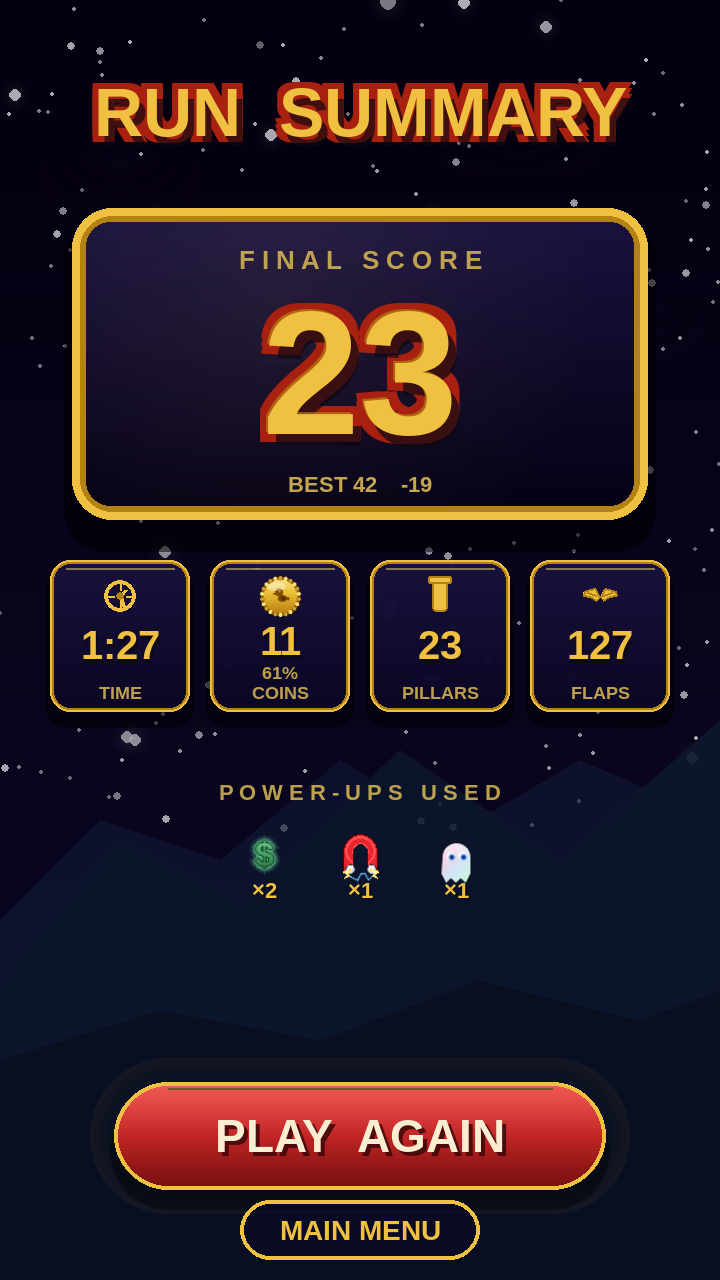
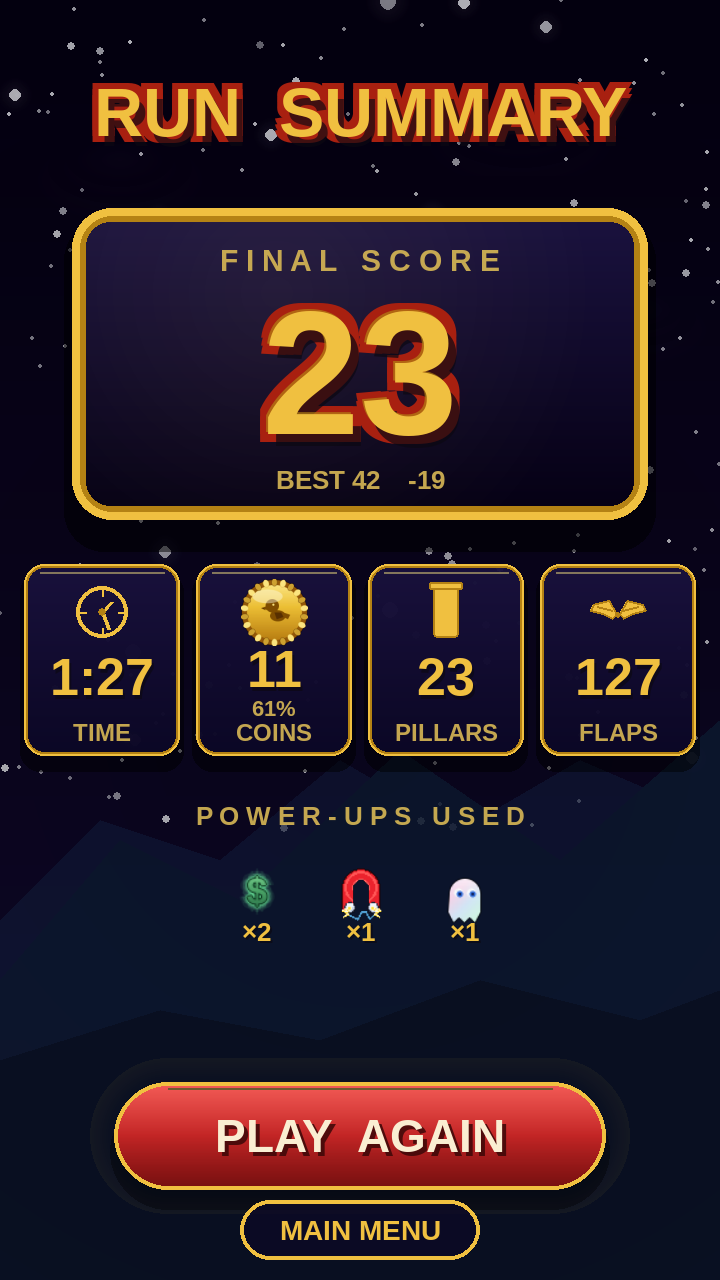
v1 typography pass: bigger tile content, bigger captions, bigger wings
The tiny secondary text was the weakest part of the screen. Now that
the power-ups row freed up vertical space, scaled everything up:

  - stat tile icon: size 8 → 13 (the wings glyph in particular is now
    legible as a pair of bird wings instead of two flecks)
  - stat tile value: font 20 → 26
  - stat tile label: font 9 → 12 (auto-shrink floor lifted to 9)
  - COINS subline: font 9 → 11
  - tile dimensions: 70×76 → 78×96 to fit the larger content
  - plaque "BEST 42 -19" line: font 11 → 13
  - "FINAL SCORE" caption: font 13 → 15
  - "POWER-UPS USED" caption: font 11 → 13
  - power-up icons: 22 → 24 logical
  - "×N" labels: font 11 → 13

All seven power-up kinds still fit in a single row at the wider icon
size; the all-7 stress test confirms it.

https://claude.ai/code/session_01BEgi1kRwzhWvvC8NuZNc1t

diff --git a/tools/gen_run_summary_redesigns.py b/tools/gen_run_summary_redesigns.py
@@ -698,35 +698,35 @@ def stat_tile_chunky(surf, rect, icon_kind, value, label, subline=None):
                      (8 * SCALE, 4 * SCALE),
                      (rect.w - 8 * SCALE, 4 * SCALE), 1 * SCALE)
     surf.blit(body, rect.topleft)
-    # Icon
-    stat_icon(surf, icon_kind, rect.centerx, rect.y + 18 * SCALE,
-              size=8)
+    # Icon — larger so it reads at a glance, especially the wings glyph
+    stat_icon(surf, icon_kind, rect.centerx, rect.y + 24 * SCALE,
+              size=13)
     # Value
-    vf = font(20, True).render(str(value), True, GOLD_BRIGHT)
-    vs = font(20, True).render(str(value), True, NEAR_BLACK)
+    vf = font(26, True).render(str(value), True, GOLD_BRIGHT)
+    vs = font(26, True).render(str(value), True, NEAR_BLACK)
     vs.set_alpha(170)
-    vy = rect.y + 40 * SCALE if subline else rect.y + 42 * SCALE
+    vy = rect.y + 52 * SCALE if subline else rect.y + 56 * SCALE
     vr = vf.get_rect(center=(rect.centerx, vy))
     surf.blit(vs, (vr.x + 1 * SCALE, vr.y + 2 * SCALE))
     surf.blit(vf, vr)
     # Optional subline — small gold-muted caption directly below the
     # value (used for COINS to surface "61%" alongside the raw count)
     if subline:
-        sf = font(9, True).render(subline, True, GOLD_MUTED)
-        sf.set_alpha(220)
+        sf = font(11, True).render(subline, True, GOLD_MUTED)
+        sf.set_alpha(230)
         surf.blit(sf, sf.get_rect(center=(rect.centerx,
-                                          rect.y + 56 * SCALE)))
-    # Label — shrinks one step if the longer captions ("NEAR MISSES")
-    # would otherwise crowd the tile edges
-    max_label_w = rect.w - 8 * SCALE
-    lbl_size = 9
+                                          rect.y + 72 * SCALE)))
+    # Label — shrinks one step if the longer captions would otherwise
+    # crowd the tile edges
+    max_label_w = rect.w - 10 * SCALE
+    lbl_size = 12
     lf = font(lbl_size, True).render(label, True, GOLD_MUTED)
-    while lf.get_width() > max_label_w and lbl_size > 7:
+    while lf.get_width() > max_label_w and lbl_size > 9:
         lbl_size -= 1
         lf = font(lbl_size, True).render(label, True, GOLD_MUTED)
-    lf.set_alpha(220)
+    lf.set_alpha(230)
     surf.blit(lf, lf.get_rect(center=(rect.centerx,
-                                      rect.y + rect.h - 10 * SCALE)))
+                                      rect.y + rect.h - 12 * SCALE)))
 
 
 def powerup_chip(surf, cx, cy, kind, count, size=22):
@@ -827,8 +827,8 @@ def draw_v1_trophy_cinema(surf, data):
     glow.blit(mask, (0, 0), special_flags=pygame.BLEND_RGBA_MIN)
     surf.blit(glow, face.topleft)
     # SCORE caption
-    sc = font(13, True).render("F I N A L   S C O R E", True, GOLD_MUTED)
-    sc.set_alpha(220)
+    sc = font(15, True).render("F I N A L   S C O R E", True, GOLD_MUTED)
+    sc.set_alpha(230)
     surf.blit(sc, sc.get_rect(center=(W // 2, plaque.y + 26 * SCALE)))
     # Massive engraved number
     big_num = str(data["score"])
@@ -857,10 +857,10 @@ def draw_v1_trophy_cinema(surf, data):
     else:
         cmp_text = f"BEST {data['best']}    {delta:+d}"
         cmp_color = GOLD_MUTED
-    cf = font(11, True).render(cmp_text, True, cmp_color)
+    cf = font(13, True).render(cmp_text, True, cmp_color)
     cf.set_alpha(230)
     surf.blit(cf, cf.get_rect(center=(W // 2,
-                                       plaque.bottom - 18 * SCALE)))
+                                       plaque.bottom - 20 * SCALE)))
 
     # Stat tile row (4 tiles)
     coins_pct = (round(data["coins"] / data["coins_total"] * 100)
@@ -872,12 +872,12 @@ def draw_v1_trophy_cinema(surf, data):
         ("pillar", data["pillars"], "PILLARS", None),
         ("flap", data["flaps"], "FLAPS", None),
     ]
-    tile_w = 70 * SCALE
-    tile_h = 76 * SCALE  # taller to accommodate the COINS subline
-    tile_gap = 10 * SCALE
+    tile_w = 78 * SCALE
+    tile_h = 96 * SCALE  # taller so the bigger icon + value + label all breathe
+    tile_gap = 8 * SCALE
     total_w = len(tiles) * tile_w + (len(tiles) - 1) * tile_gap
     start_x = (W - total_w) // 2
-    tile_y = 280 * SCALE
+    tile_y = 282 * SCALE
     for i, (k, v, lbl, sub) in enumerate(tiles):
         r = pygame.Rect(start_x + i * (tile_w + tile_gap), tile_y,
                         tile_w, tile_h)
@@ -889,27 +889,27 @@ def draw_v1_trophy_cinema(surf, data):
     # logical canvas (7 × 44 + 6 × 4 = 332 px → 28 px total margin).
     pu = [(k, c) for k, c in data["powerups_picked"] if c and c > 0]
     if pu:
-        cap_y = 396 * SCALE
-        cap2 = font(11, True).render("P O W E R - U P S   U S E D",
+        cap_y = 408 * SCALE
+        cap2 = font(13, True).render("P O W E R - U P S   U S E D",
                                      True, GOLD_MUTED)
-        cap2.set_alpha(220)
+        cap2.set_alpha(230)
         surf.blit(cap2, cap2.get_rect(center=(W // 2, cap_y)))
-        icon_logical = 22
+        icon_logical = 24
         icon_box = icon_logical * 2 * SCALE
         gap = 4 * SCALE
         pitch = icon_box + gap
         total_w = len(pu) * icon_box + max(0, len(pu) - 1) * gap
         sx = (W - total_w) // 2 + icon_box // 2
-        icon_cy = cap_y + 30 * SCALE
+        icon_cy = cap_y + 36 * SCALE
         for i, (kind, count) in enumerate(pu):
             cx = sx + i * pitch
             _ingame_powerup_icon(surf, kind, cx, icon_cy,
                                  int(icon_logical * 1.7 * SCALE))
-            cf = font(11, True).render(f"×{count}", True, GOLD_BRIGHT)
-            cs = font(11, True).render(f"×{count}", True, NEAR_BLACK)
+            cf = font(13, True).render(f"×{count}", True, GOLD_BRIGHT)
+            cs = font(13, True).render(f"×{count}", True, NEAR_BLACK)
             cs.set_alpha(170)
             cr = cf.get_rect(center=(cx, icon_cy
-                                     + int(icon_logical * 0.9) * SCALE))
+                                     + int(icon_logical * 0.95) * SCALE))
             surf.blit(cs, (cr.x + 1 * SCALE, cr.y + 1 * SCALE))
             surf.blit(cf, cr)
 
